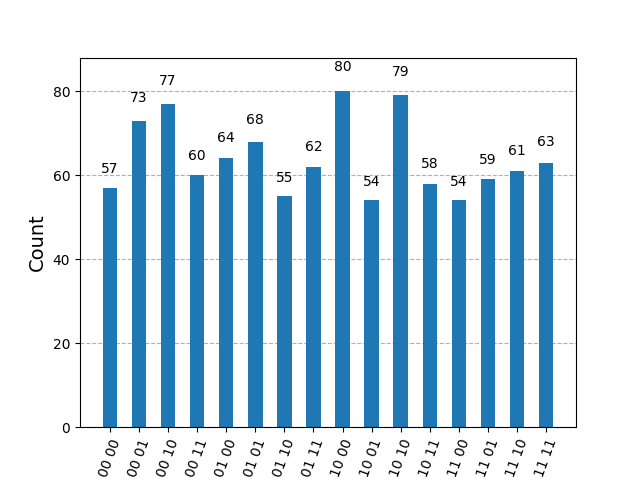
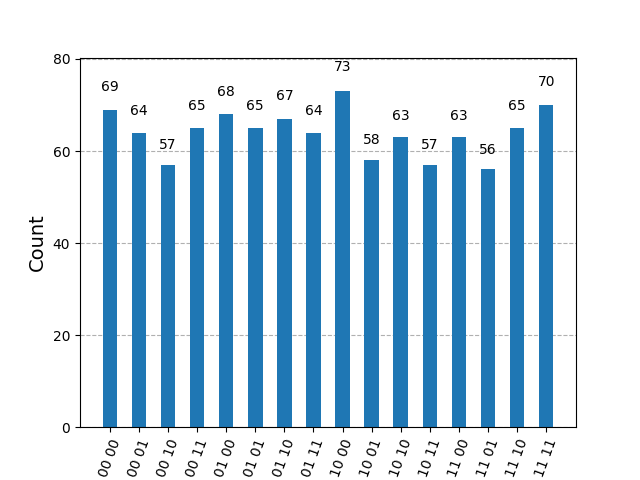
Figures and code for uncomputing a single ancilla (a0)

diff --git a/qcnc_paper_code/qcnc_circuits.py b/qcnc_paper_code/qcnc_circuits.py
@@ -86,6 +86,46 @@ def basic_circuit_with_uncomp(dir='qcnc_paper_code/'):
 
     return circuit, dir+'qcnc_paper_figures/basic_circuit_with_uncomp'
 
+def basic_circuit_with_sub_uncomp(dir='qcnc_paper_code/'):
+    input_q = QuantumRegister(2, 'q')
+    input_c = ClassicalRegister(2, 'qc')
+    ancilla_q = QuantumRegister(2, 'a')
+    ancilla_c = ClassicalRegister(2, 'ac')
+
+    circuit = QuantumCircuit(input_q, input_c, ancilla_q, ancilla_c)
+    circuit.h(input_q[0])
+    circuit.h(input_q[1])
+
+    # This is to group the gates in the drawing better
+    circuit.barrier(range(4))
+    
+    circuit.cx(input_q[0], ancilla_q[0])
+    circuit.cx(input_q[1], ancilla_q[1])
+
+
+    circuit.barrier(range(4))
+    # circuit.cx(ancilla_q[0], input_q[0])
+
+
+    circuit.cx(input_q[0], ancilla_q[0])
+    # circuit.cx(input_q[1], ancilla_q[1])
+
+    circuit.barrier(range(4))
+
+    circuit.h(input_q[0])
+    circuit.h(input_q[1])
+
+    circuit.barrier(range(4))
+
+    circuit.measure(qubit=input_q[0], cbit=input_c[0])
+    circuit.measure(qubit=input_q[1], cbit=input_c[1])
+    circuit.measure(qubit=ancilla_q[0], cbit=ancilla_c[0])
+    circuit.measure(qubit=ancilla_q[1], cbit=ancilla_c[1])
+    circuit.draw('mpl', initial_state=True, plot_barriers=False, filename=dir+'qcnc_paper_figures/basic_circuit_with_sub_uncomp')
+
+    return circuit, dir+'qcnc_paper_figures/basic_circuit_with_sub_uncomp'
+
 # print(os.)
 run_measurements(basic_circuit())
 run_measurements(basic_circuit_with_uncomp())
+run_measurements(basic_circuit_with_sub_uncomp())
